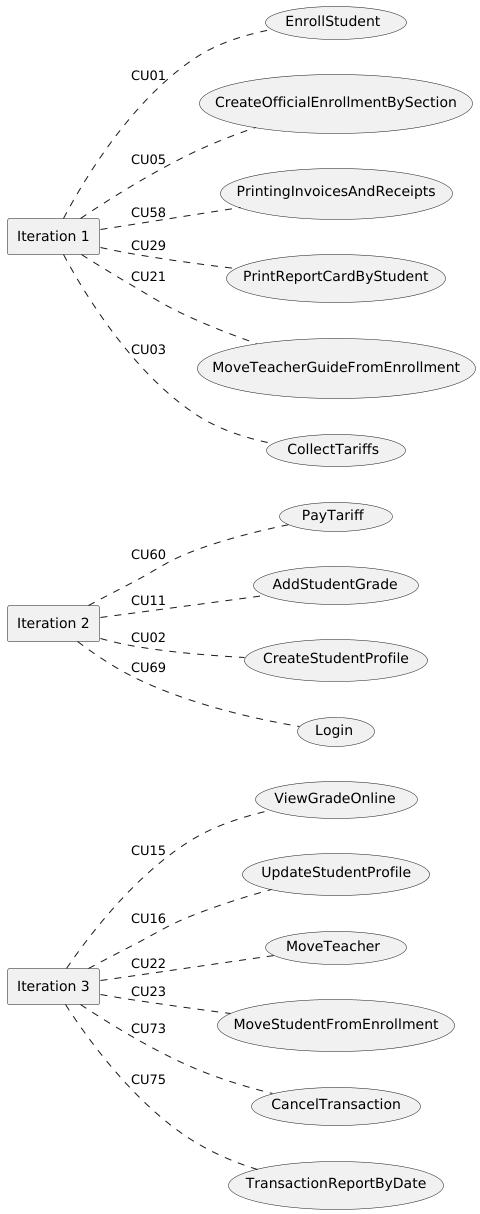
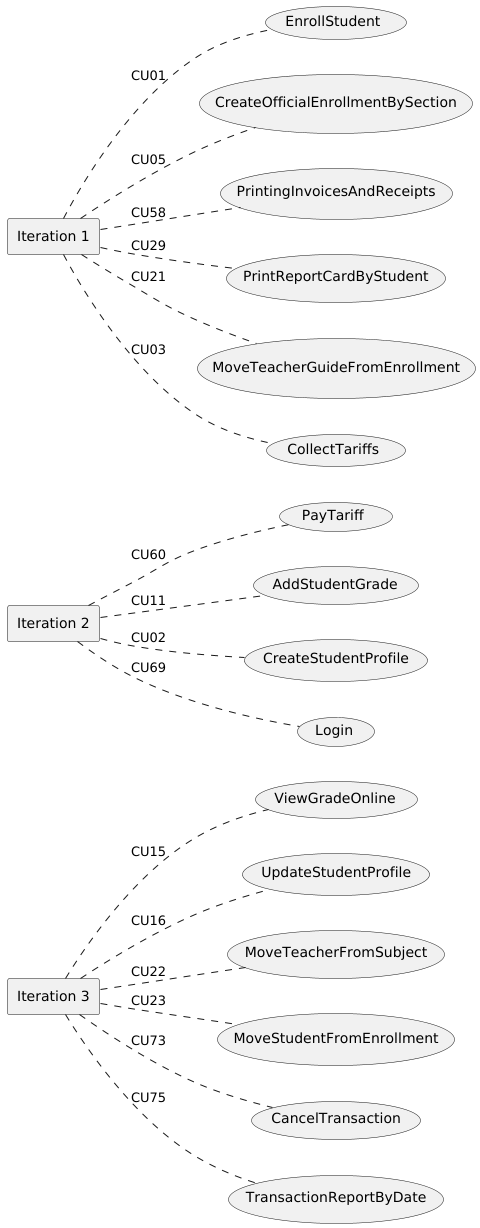
Refactor: rename MoveTeacherFromSubject usecase

diff --git a/Review/analysis-view.usecase.md b/Review/analysis-view.usecase.md
@@ -137,10 +137,10 @@ El detallado de las clases de estos casos de usos están en la carpeta de Análi
 
 ### CU22. MoveTeacher <a id="cu22"></a>
 * ### Classes
-![](../out/DesignView/AnalysisView/UseCaseAnalysis/CU22.MoveTeacher/Classes.CU22.Analysis.png)
+![](../out/DesignView/AnalysisView/UseCaseAnalysis/CU22.MoveTeacherFromSubject/Classes.CU22.Analysis.png)
 
 * ### Collaboration
-![](../out/DesignView/AnalysisView/UseCaseAnalysis/CU22.MoveTeacher/Collaboration.CU22.Analysis.png)
+![](../out/DesignView/AnalysisView/UseCaseAnalysis/CU22.MoveTeacherFromSubject/Collaboration.CU22.Analysis.png)
 
 
 ### CU23. MoveStudentFromEnrollment <a id="cu23"></a>

diff --git a/Review/usecase-view.md b/Review/usecase-view.md
@@ -28,9 +28,9 @@ Diagrama de todos los actores del sistema.
 ## Requisites <a id="requisites"></a>
 Requisistos del sistema, aquí se muestran algunos de los requisitos, en particular los tratados en las iteraciones del desarrollo.
 
-![](../out/UseCaseView/Requisites-Iteration 1.png)
-![](../out/UseCaseView/Requisites-Iteration 2.png)
-![](../out/UseCaseView/Requisites-Iteration 3.png)
+![](../out/UseCaseView/Requisites-Iteration-1.png)
+![](../out/UseCaseView/Requisites-Iteration-2.png)
+![](../out/UseCaseView/Requisites-Iteration-3.png)
 
 
 ### Use Case Model <a id="use-case-model"></a>
